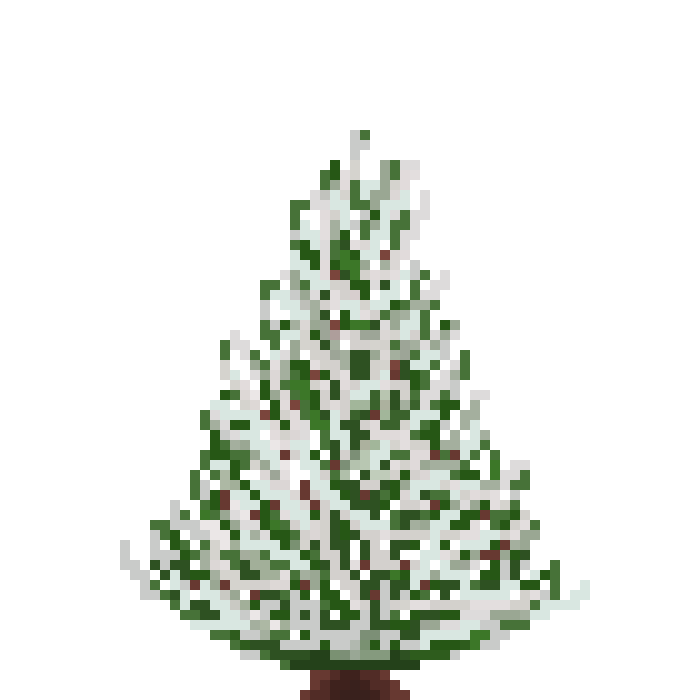
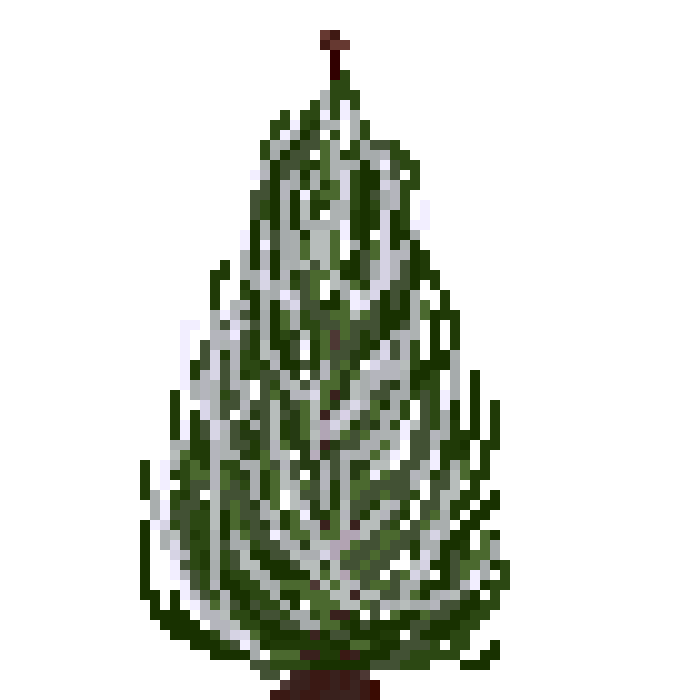
Много png

Changed region(s): [[0.15, 0.03, 0.84, 1.0]]

diff --git a/scripts/generate_snow_background.py b/scripts/generate_snow_background.py
@@ -75,7 +75,8 @@ if __name__ == "__main__":
     spruce_paths = [
         "resources/background/outer_space/spruce_1.png",
         "resources/background/outer_space/spruce_2.png",
-        "resources/background/outer_space/spruce_3.png"
+        "resources/background/outer_space/spruce_3.png",
+        "resources/background/outer_space/spruce_4.png"
     ]
     output_path = "resources/background/snow_with_spruces.png"
     

diff --git a/src/windows/game_view.py b/src/windows/game_view.py
@@ -10,7 +10,7 @@ class GameView(arcade.View):
         self.window = window
         
         # Настройка фона
-        self.bg = arcade.Sprite('resources/background/snow_blank.png', scale=1.0)
+        self.bg = arcade.Sprite('resources/background/snow_with_spruces.png', scale=1.0)
         self.bg.center_x = 0
         self.bg.center_y = 0
         self.bg_list = arcade.SpriteList()
